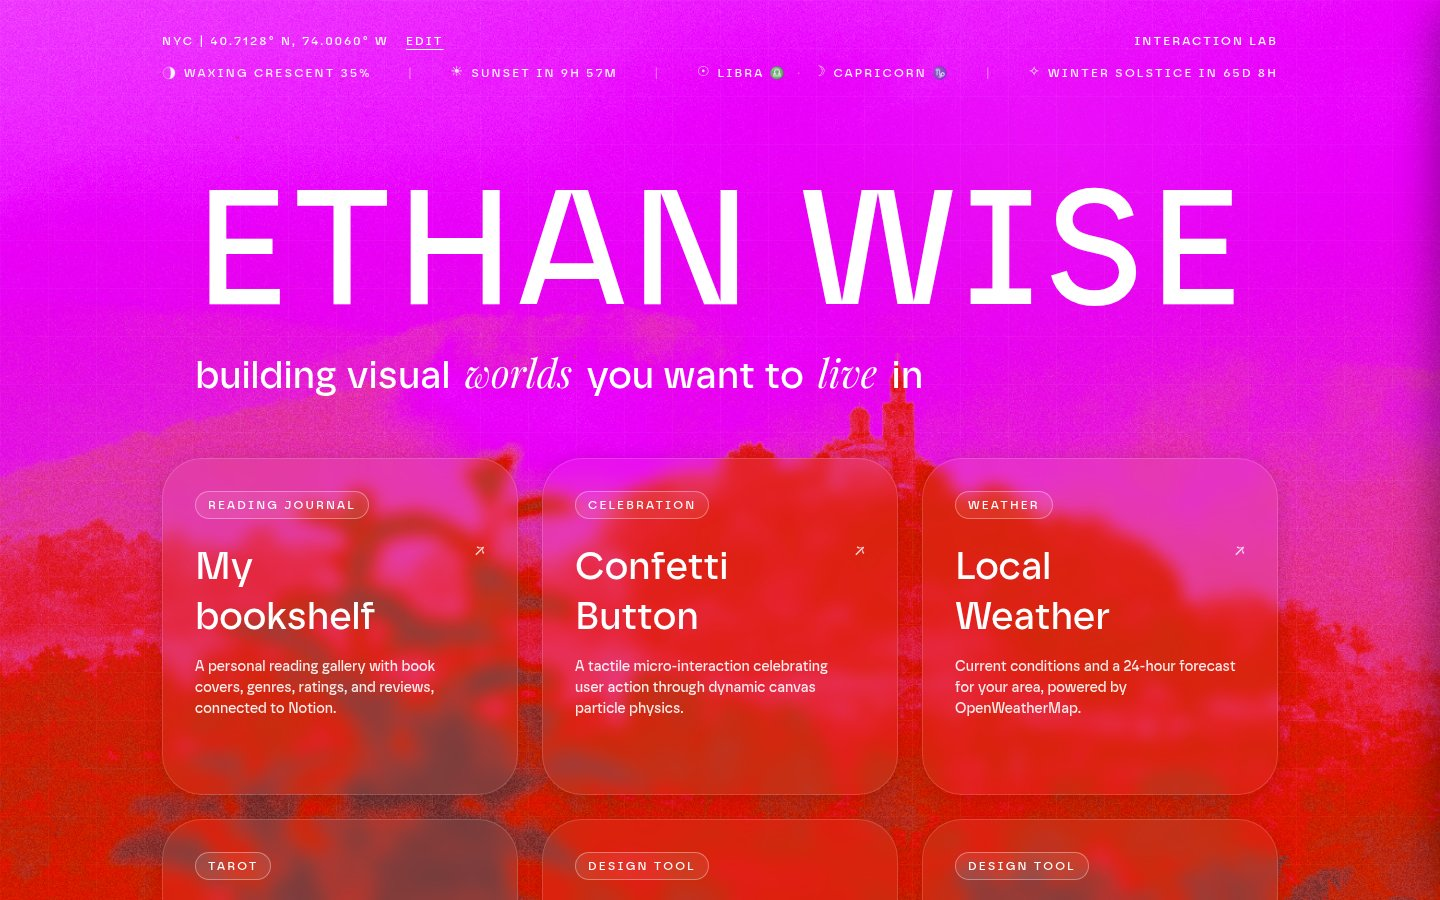
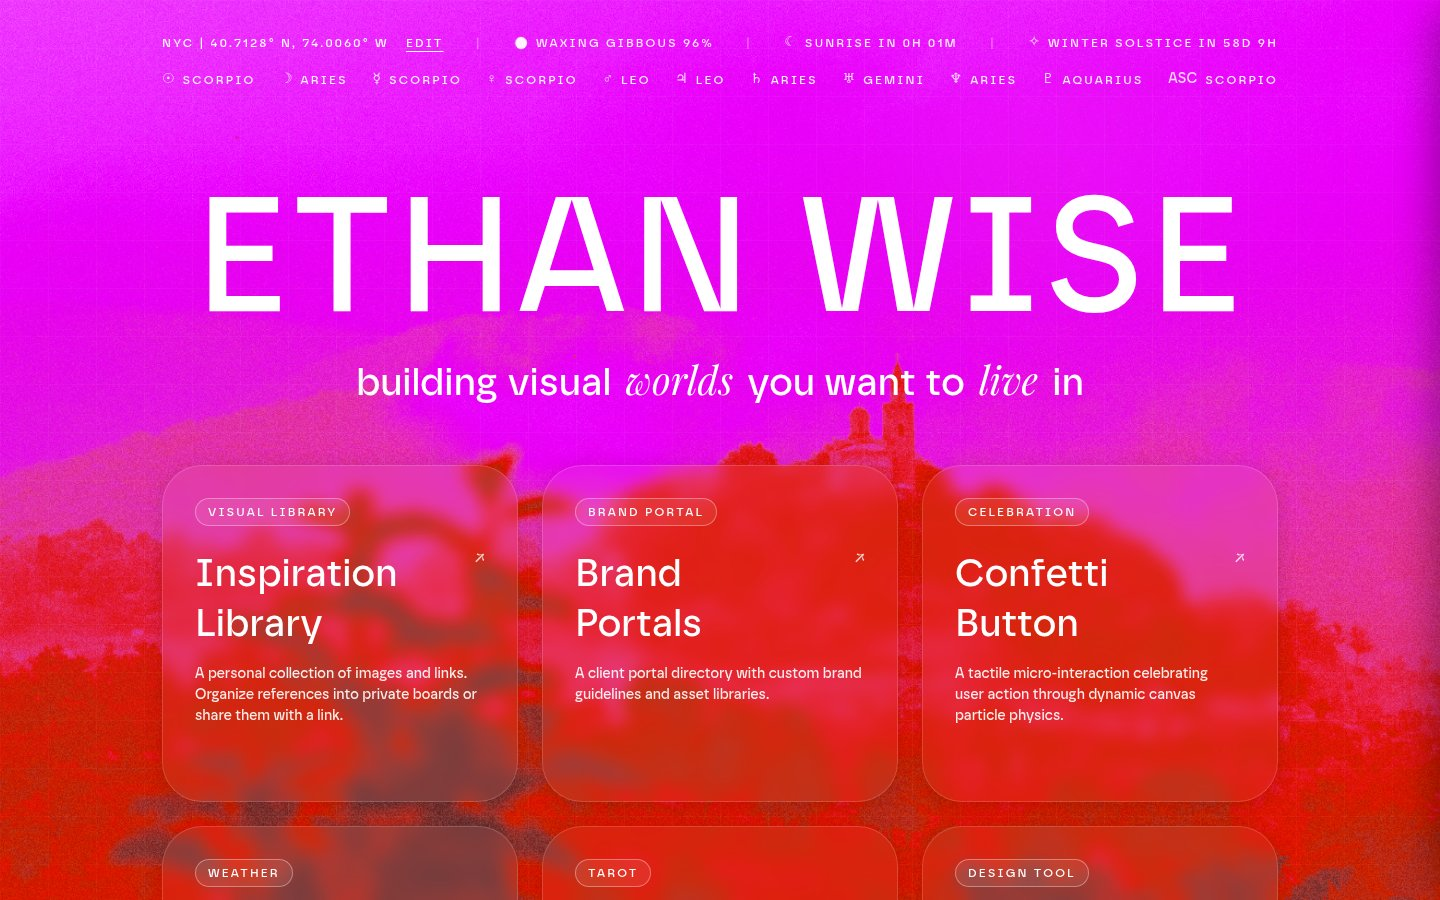
Refresh 11 homepage thumbnails whose designs changed

diff --git a/docs/preview-refresh-2026-10-24.md b/docs/preview-refresh-2026-10-24.md
@@ -1,0 +1,23 @@
+# Homepage thumbnail refresh — October 24, 2026
+
+Recaptured all 31 student homepages with `npm run previews:sites` at 1440 × 900 and compared each with the October 23 thumbnail, both visually and with a pixel diff. Eleven homepages changed and were updated. The other 20 differed only by animation, clocks, or scrolling marquees, so their previous thumbnails were kept. No project links or classifications changed.
+
+Matthew redesigned his site. The simulated desktop with an “About Me” icon is gone, so the capture now waits for the canvas that draws his name mosaic.
+
+## Updated
+
+| Student | Change |
+| --- | --- |
+| Hoi Kin Chan (Matthew) | Full redesign: the black-and-white simulated desktop is replaced by a white editorial page with a “MATTHEW CHAN” tile mosaic and a numbered list of five prototypes. |
+| Ethan Wise | Card grid now leads with Inspiration Library, Brand Portals, and Confetti Button; a zodiac row was added to the header. |
+| Jiaqi Yuan | Lighter background; the gallery count went from 13 to 16 playable experiments. |
+| Jochi Yu | New Inspiration library card. |
+| Letian Tian | New Inspiration sticker on the potato. |
+| Minju Jang | Workshop list grows to 11 entries, including Inspiration library, with “OPEN” badges. |
+| Ruyi Wang | New project labels in the bottom row, including My Bookshelf and Doodle Garden. |
+| Shuotong Huang (Tiffany) | Inspiration library card added first; the window now lists 10 items. |
+| Stephen Grant (Mac) | Feed now opens on an Inspiration Library post, with a matching story and suggestion. |
+| Vivan Nadkarni | Inspiration library card replaces “Placeholder 7” in the carousel. |
+| Ziona Sober | “Your boards” tile now appears in the homepage collage. Tile positions animate between captures. |
+
+The committed JPEG files are the gallery assets.

diff --git a/README.md b/README.md
@@ -31,6 +31,8 @@ The [Week 6 Books review](docs/books-review-2026-10-16.md) records the full-rost
 
 The [Week 7 Inspiration library review](docs/inspiration-review-2026-10-23.md) covers all 22 published libraries; all are listed for visibility, and the note records which have a connected database.
 
+The [October 24 thumbnail refresh](docs/preview-refresh-2026-10-24.md) recaptured all 31 homepages and updated the 11 whose design or content changed, including Matthew’s redesigned site.
+
 The [October 23 recheck](docs/site-review-2026-10-23.md) reran the audit across all 31 sites, added seven projects (six to earlier weeks, one to Week 7), and refreshed every thumbnail.
 
 The [October 17 audit](docs/site-review-2026-10-17.md) rechecked all 31 sites with `npm run audit:projects`, added five projects, removed two that no longer exist, and refreshed every thumbnail.
